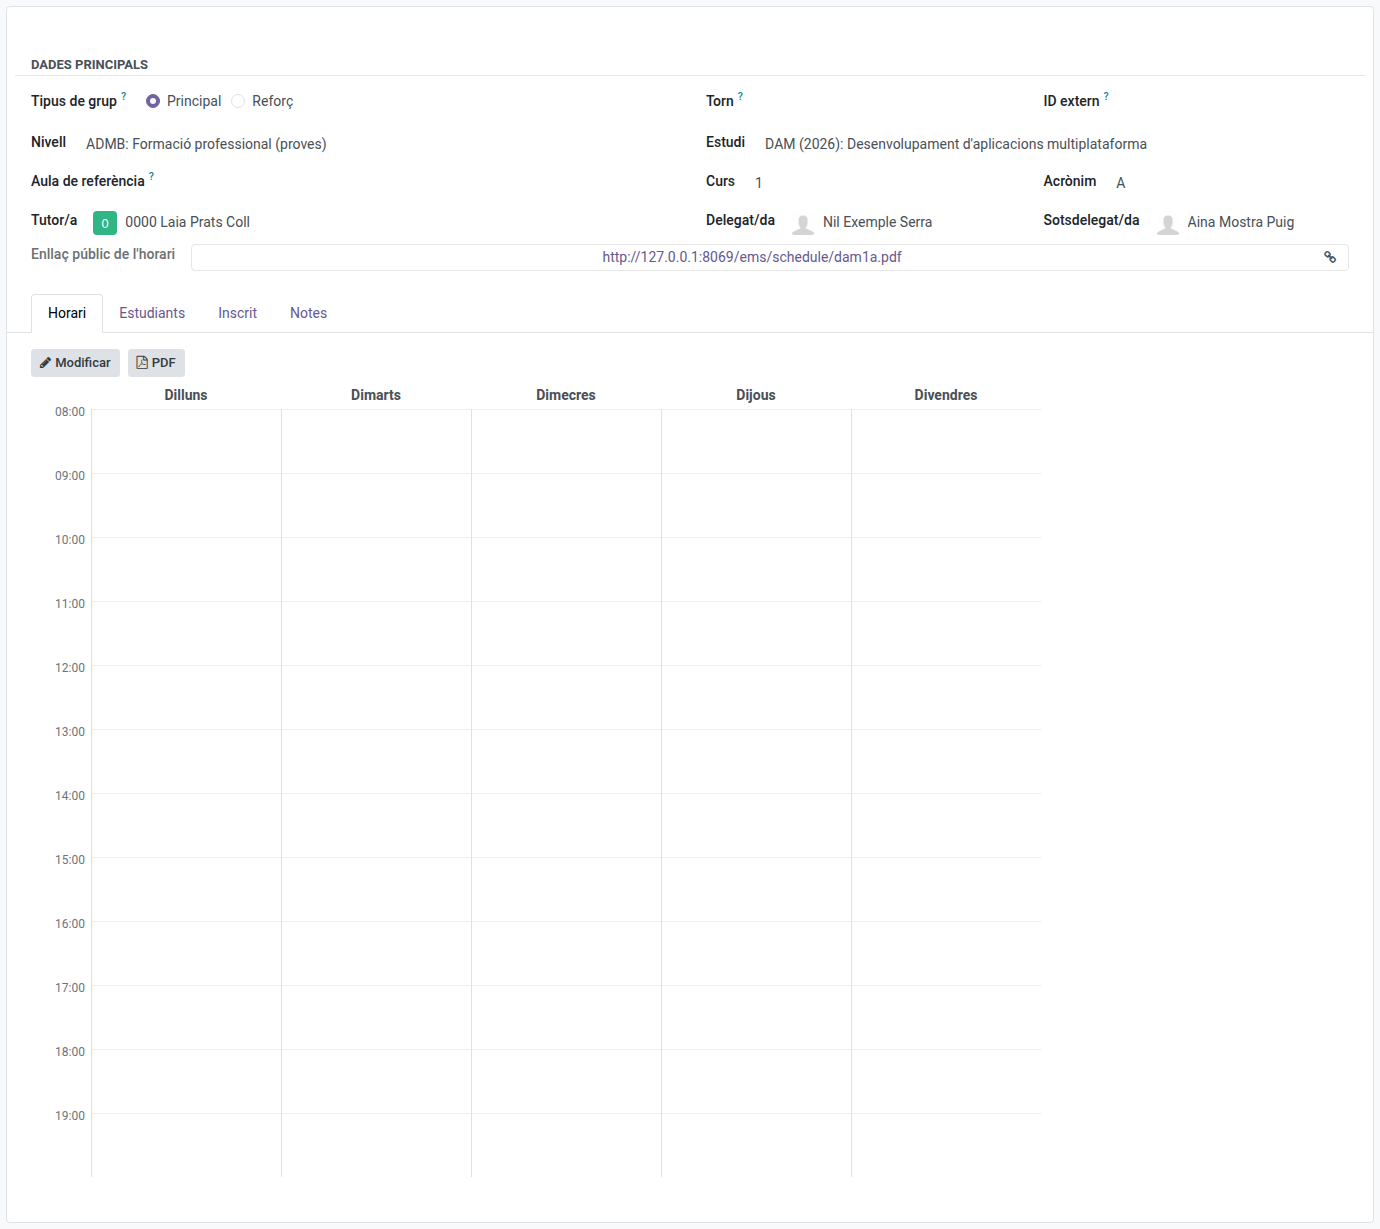
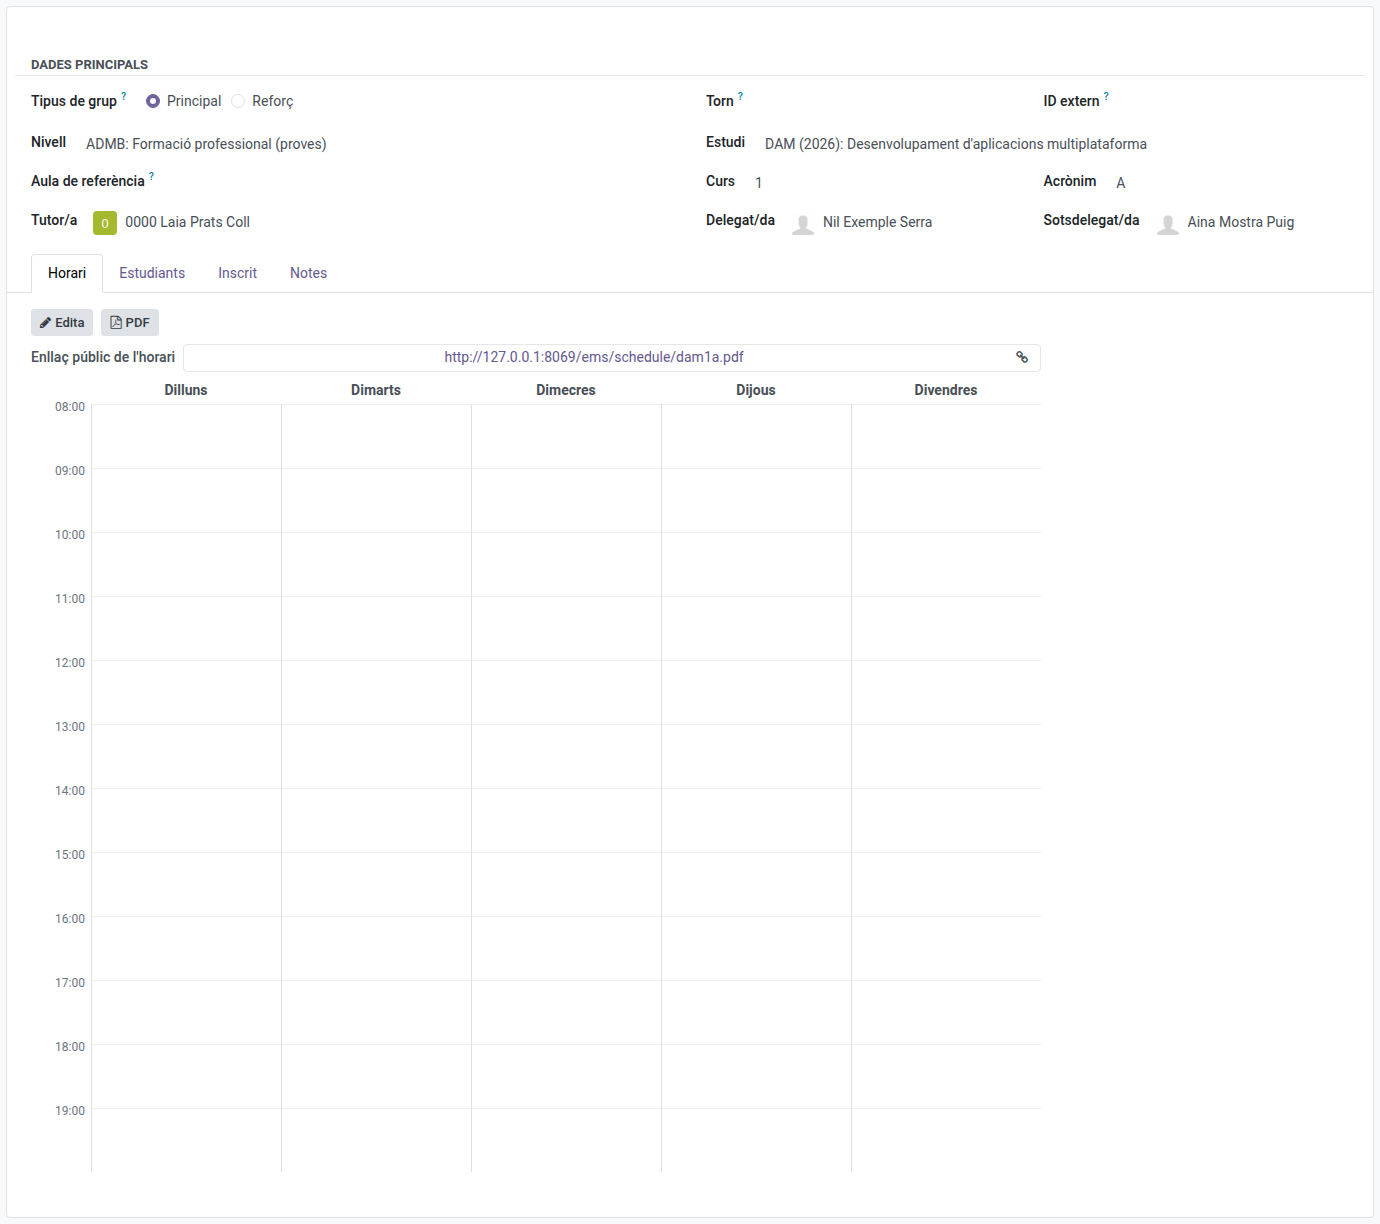
Group form: public schedule link on the Schedule tab (#574)

diff --git a/static/src/js/backend/schedule_grid_readonly_field.js b/static/src/js/backend/schedule_grid_readonly_field.js
@@ -3,6 +3,7 @@
 import { Component, useState, onWillStart } from "@odoo/owl";
 import { registry } from "@web/core/registry";
 import { standardFieldProps } from "@web/views/fields/standard_field_props";
+import { CopyClipboardURLField } from "@web/views/fields/copy_clipboard/copy_clipboard_field";
 import { useService } from "@web/core/utils/hooks";
 import { PX_PER_HOUR, WEEKDAYS, MIN_ENTRY_HEIGHT, dayLabels, computeBounds, formatHour, formatHourMinutes, buildColorMap, layoutOverlappingBlocks } from "./schedule_grid_geometry";
 
@@ -43,6 +44,7 @@ const PDF_ACTION_BY_MODEL = {
 export class ReadonlyScheduleGridField extends Component {
     static template = "ems.ReadonlyScheduleGridField";
     static props = { ...standardFieldProps };
+    static components = { CopyClipboardURLField };
 
     setup() {
         this.actionService = useService("action");
@@ -64,6 +66,16 @@ export class ReadonlyScheduleGridField extends Component {
     // own read-only tab never defines this field at all).
     get canEditSchedule() {
         return !!this.props.record.data.can_edit_schedule;
+    }
+
+    // Issue #574 - the group's public, no-login schedule link (issue #453), shown between the
+    // toolbar and the grid. Same pattern as 'canEditSchedule': only 'ems.group' defines the field,
+    // so it is absent (falsy) on every other model reusing this widget. An archived group's link
+    // isn't offered. The copy button uses navigator.clipboard, which browsers only expose over
+    // HTTPS or localhost: over plain http it silently does nothing.
+    get publicScheduleUrl() {
+        const data = this.props.record.data;
+        return data.active !== false && data.public_schedule_url;
     }
 
     get entries() {

diff --git a/static/tests/tours/group_public_schedule_tour.js b/static/tests/tours/group_public_schedule_tour.js
@@ -30,15 +30,15 @@ registry.category("web_tour.tours").add("ems_group_public_schedule", {
             run: "click",
         },
         {
-            trigger: ".o_form_view .o_field_widget[name='public_schedule_url']:contains('/ems/schedule/tour-public-schedule-tgpt.pdf')",
-            content: "The public schedule link is shown",
+            trigger: ".o_form_view .o_schedule_grid_toolbar + .o_schedule_grid_public_url:contains('/ems/schedule/tour-public-schedule-tgpt.pdf') + .o_schedule_grid_grid",
+            content: "The public schedule link is shown on the Schedule tab, between its buttons and the grid",
         },
         {
-            trigger: ".o_form_view div[name='public_schedule_url'] a.o_form_uri[target='_blank'][href$='/ems/schedule/tour-public-schedule-tgpt.pdf']",
+            trigger: ".o_form_view .o_schedule_grid_public_url a.o_form_uri[target='_blank'][href$='/ems/schedule/tour-public-schedule-tgpt.pdf']",
             content: "The link opens the PDF in a new tab",
         },
         {
-            trigger: ".o_form_view .o_field_widget[name='public_schedule_url'] .o_clipboard_button",
+            trigger: ".o_form_view .o_schedule_grid_public_url .o_clipboard_button",
             content: "It can be copied",
         },
     ],

diff --git a/tests/test_docs_screenshots_admin.py b/tests/test_docs_screenshots_admin.py
@@ -188,6 +188,11 @@ class TestDocsScreenshotsAdmin(HttpCase, DocsScreenshotMixin):
             self._form_url('ems.group', group), '.o_form_sheet', 'admin-groups-form.png',
             login='doc_shot_admin', wait_for=".o_form_sheet .o_field_widget[name='tutor_id']",
         )
+        # ...and its public schedule link, on the Schedule tab between the buttons and the grid.
+        self._capture(
+            self._form_url('ems.group', group), '.o_schedule_grid', 'group-schedule-public-link.png',
+            login='doc_shot_admin', wait_for='.o_schedule_grid_public_url', max_height=150,
+        )
 
         # --- Teacher roles: a teacher with two roles assigned by hand ---
         teacher = self._teacher('0000 Jordi Mostra Vidal')

diff --git a/docs/en/developers/contacts/group_schedule.md b/docs/en/developers/contacts/group_schedule.md
@@ -291,7 +291,7 @@ flowchart LR
 | Field | Type | Notes |
 |-------|------|-------|
 | `public_schedule_slug` | Char, computed from `name`, stored, indexed | `ir.http._slugify(name)` (`GA2Matí` → `ga2mati`, `Reforç Programació` → `reforc-programacio`). Readable by design (developer choice): it changes if the group is renamed. |
-| `public_schedule_url` | Char, computed, not stored | `web.base.url` + `/ems/schedule/<slug>.pdf`, shown on the group form with `widget="CopyClipboardURL"`: a link opening the PDF in a new tab plus Odoo's copy button. The copy button uses `navigator.clipboard`, which browsers only expose over HTTPS or `localhost` - over plain `http://` (e.g. a dev box) it silently does nothing (Odoo's `CopyButton` only logs a console warning). |
+| `public_schedule_url` | Char, computed, not stored | `web.base.url` + `/ems/schedule/<slug>.pdf`, shown on the group form's Schedule tab, between the toolbar and the grid, by `ReadonlyScheduleGridField` itself (which renders Odoo's `CopyClipboardURLField` when the record has the field and is active): a link opening the PDF in a new tab plus Odoo's copy button. The copy button uses `navigator.clipboard`, which browsers only expose over HTTPS or `localhost` - over plain `http://` (e.g. a dev box) it silently does nothing (Odoo's `CopyButton` only logs a console warning). |
 | `public_schedule_pdf` | Binary, `attachment=True`, readonly | The last rendered PDF. |
 | `public_schedule_dirty` | Boolean, default `True` | "Needs re-rendering". Default `True` means a brand-new group, or every existing group right after the upgrade that adds the column, gets its first PDF on the next cron run - no migration or `post_init_hook` needed. |
 

diff --git a/docs/ca/admin/group-schedule.md b/docs/ca/admin/group-schedule.md
@@ -87,10 +87,10 @@ Cada grup actiu té un enllaç públic al PDF del seu horari, que qualsevol pers
 iniciar sessió a EMS — per exemple, per enllaçar l'horari de cada grup des del web del centre.
 
 1. Obre **Grups → [un grup]**.
-2. Al camp **Enllaç públic de l'horari** (p. ex. `.../ems/schedule/eso1a.pdf`), fes clic a
+2. A la pestanya **Horari**, sota el botó **PDF**, al camp **Enllaç públic de l'horari** (p. ex. `.../ems/schedule/eso1a.pdf`), fes clic a
    l'enllaç per obrir el PDF en una pestanya nova, o fes clic al botó de la dreta per copiar-lo.
 
-![Enllaç públic de l'horari a la fitxa del grup](../../assets/admin/group-schedule-public-link.png)
+![Enllaç públic de l'horari a la pestanya Horari del grup](../../assets/admin/group-schedule-public-link.png)
 
 El PDF de l'enllaç s'actualitza automàticament uns segons després de qualsevol canvi en l'horari
 del grup, de manera que no cal substituir mai l'enllaç. L'enllaç es construeix a partir del nom

diff --git a/docs/en/admin/group-schedule.md b/docs/en/admin/group-schedule.md
@@ -88,10 +88,10 @@ Every active group has a public link to its schedule PDF, which anyone can open 
 in to EMS — use it, for example, to link each group's timetable from the centre's website.
 
 1. Open **Groups → [a group]**.
-2. In the **Public schedule link** field (e.g. `.../ems/schedule/eso1a.pdf`), click the link to
+2. On the **Schedule** tab, below the **PDF** button, in the **Public schedule link** field (e.g. `.../ems/schedule/eso1a.pdf`), click the link to
    open the PDF in a new tab, or click the button on its right to copy the link.
 
-![Public schedule link on the group form](../../assets/admin/group-schedule-public-link.png)
+![Public schedule link on the group's Schedule tab](../../assets/admin/group-schedule-public-link.png)
 
 The PDF behind the link is updated automatically a few seconds after any change to the group's
 schedule, so the link never needs to be replaced. The link is built from the group's name: if

diff --git a/docs/es/admin/group-schedule.md b/docs/es/admin/group-schedule.md
@@ -92,11 +92,11 @@ sin iniciar sesión en EMS — por ejemplo, para enlazar el horario de cada grup
 centro.
 
 1. Abre **Grupos → [un grupo]**.
-2. En el campo **Enlace público del horario** (p. ej. `.../ems/schedule/eso1a.pdf`), haz clic en
+2. En la pestaña **Horario**, bajo el botón **PDF**, en el campo **Enlace público del horario** (p. ej. `.../ems/schedule/eso1a.pdf`), haz clic en
    el enlace para abrir el PDF en una pestaña nueva, o haz clic en el botón de la derecha para
    copiarlo.
 
-![Enlace público del horario en la ficha del grupo](../../assets/admin/group-schedule-public-link.png)
+![Enlace público del horario en la pestaña Horario del grupo](../../assets/admin/group-schedule-public-link.png)
 
 El PDF del enlace se actualiza automáticamente unos segundos después de cualquier cambio en el
 horario del grupo, así que nunca hace falta sustituir el enlace. El enlace se construye a partir

diff --git a/changelog/574-group-subdelegate.md b/changelog/574-group-subdelegate.md
@@ -7,8 +7,9 @@
   a group to reinforcement clears it), and it is cleared automatically when that student leaves the
   group (withdrawal, or a course transition that graduates or strands them).
 - The group form's main data is regrouped: level and study on one row, then reference classroom,
-  course and acronym, then tutor, delegate and sub-delegate.
-- The admin groups and working-schedules manuals mention it, with a refreshed group form screenshot.
+  course and acronym, then tutor, delegate and sub-delegate. The public schedule link moves to the
+  Schedule tab, between its buttons and the grid.
+- The admin groups, working-schedules and group-schedule manuals describe it, with refreshed screenshots.
 
 # Fixes:
 
